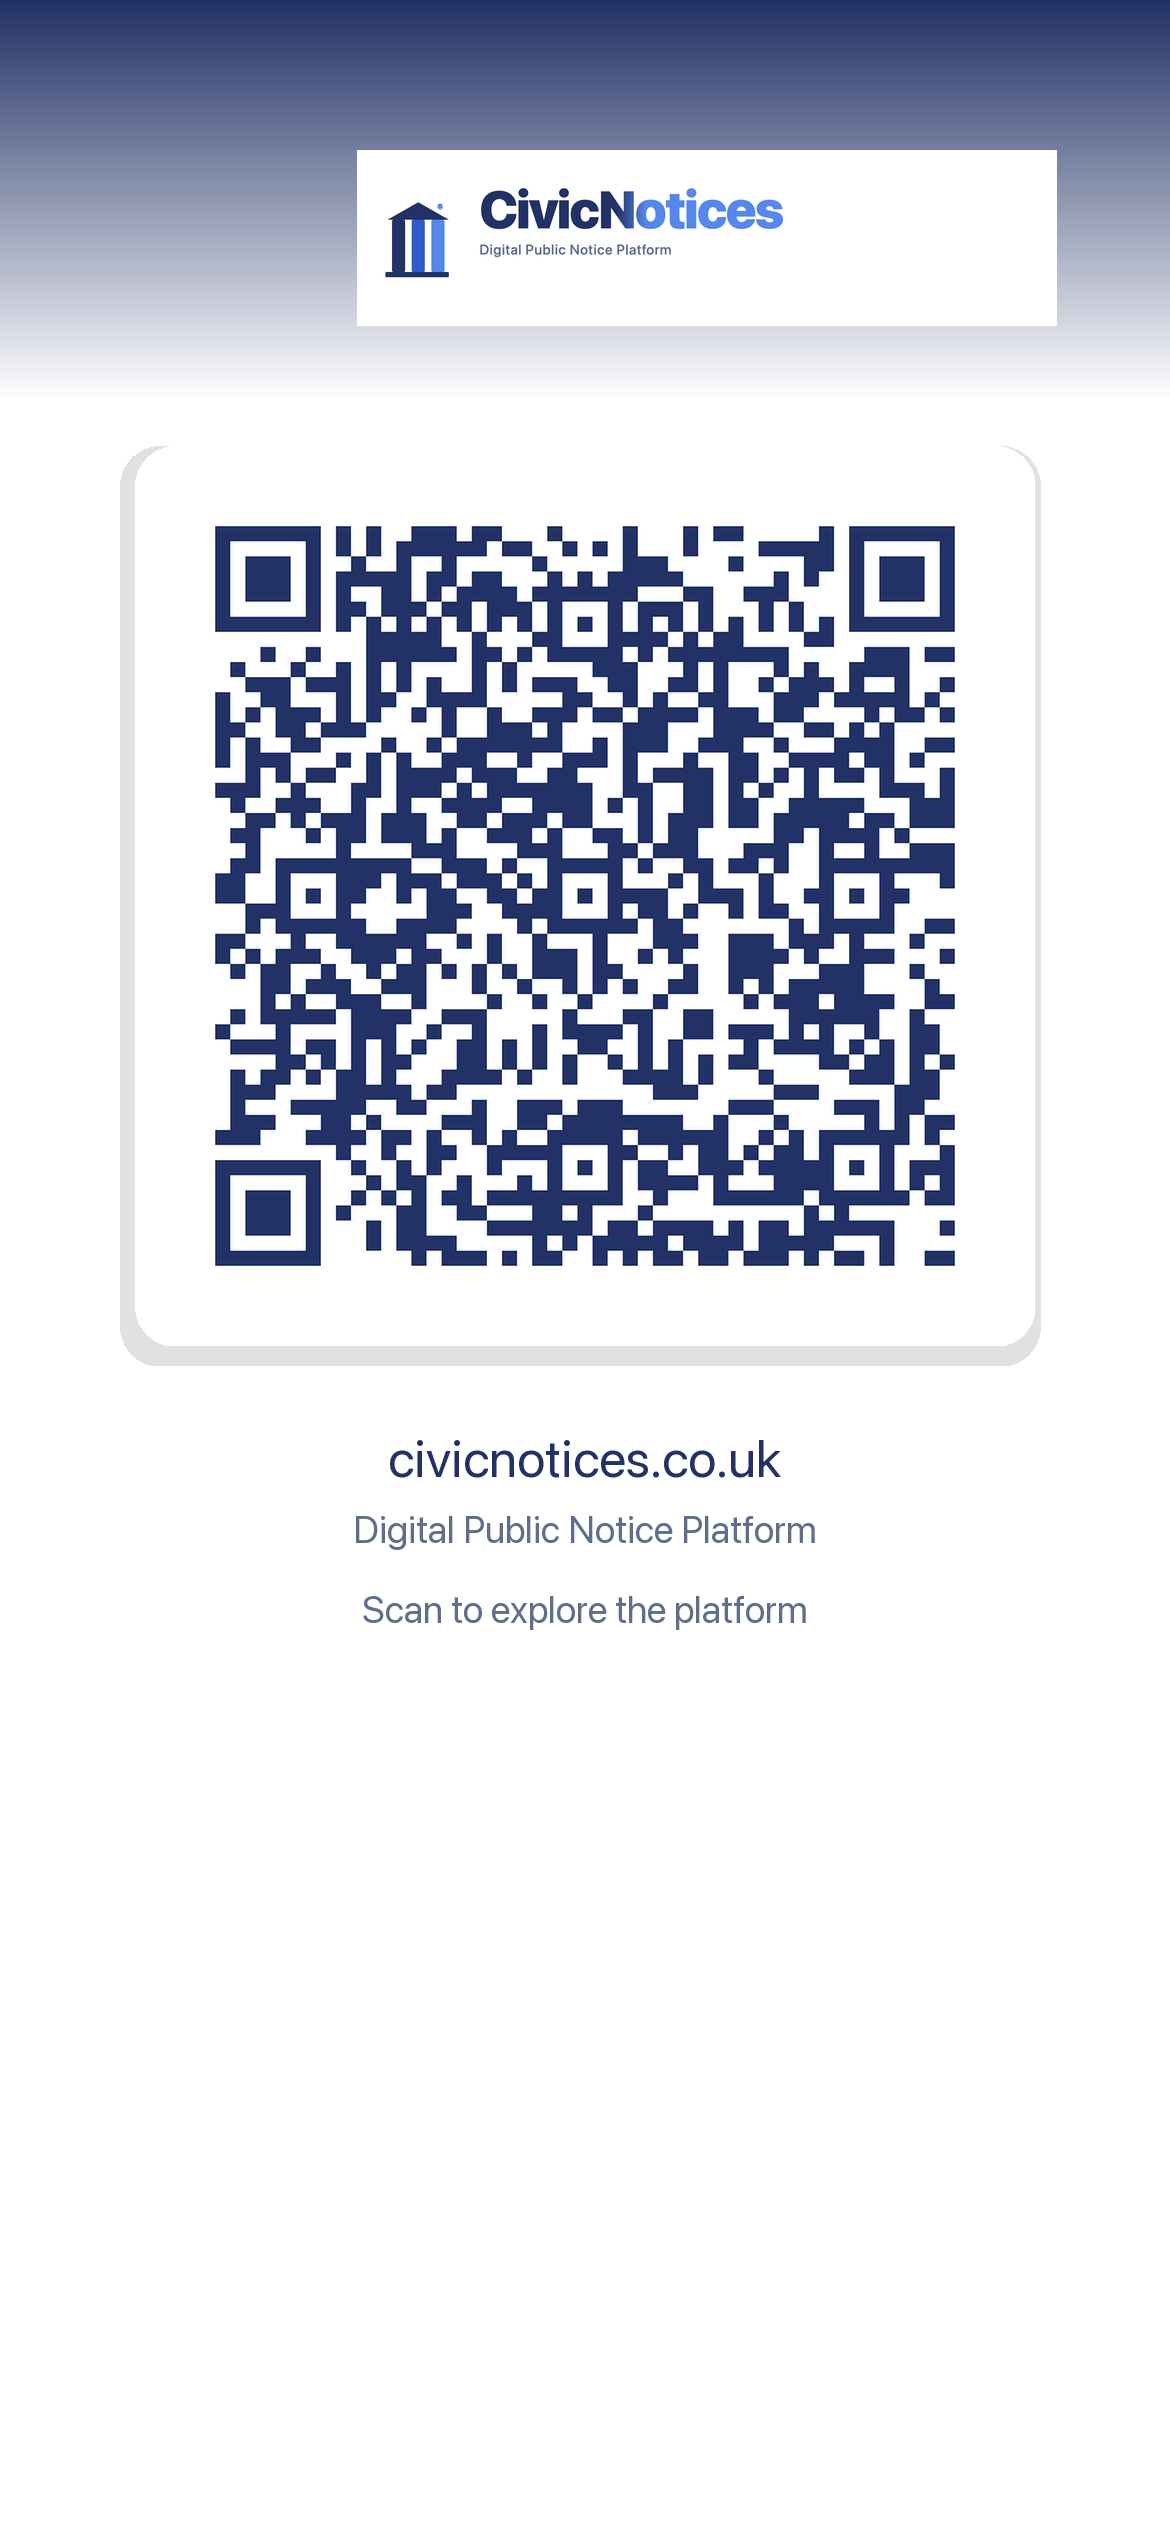
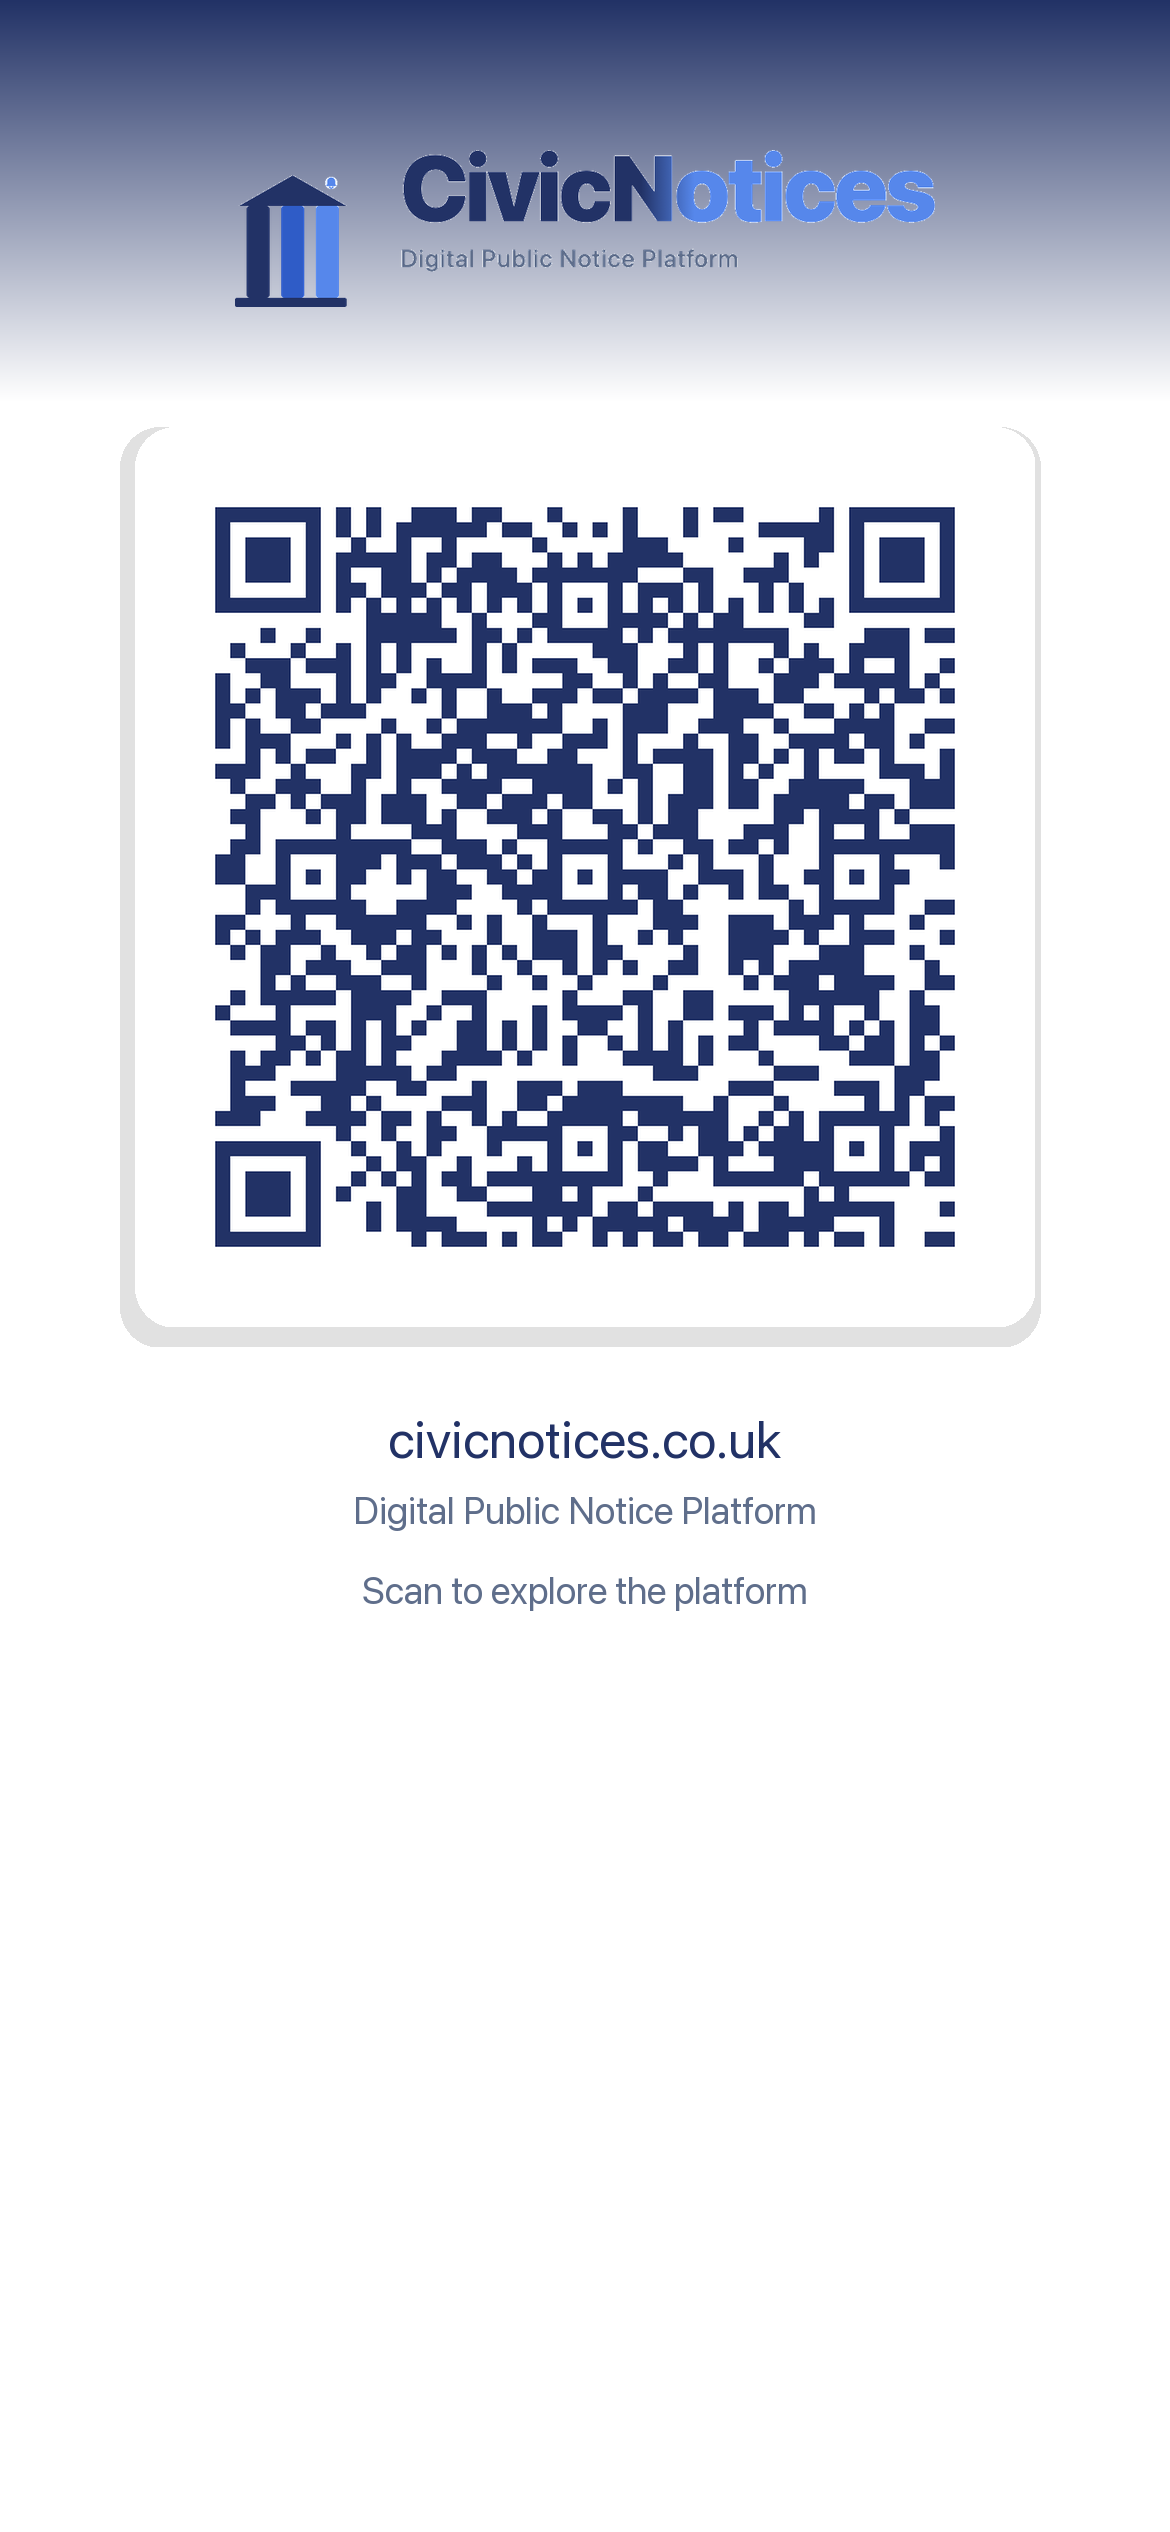
feat: move 'Explore Other Journeys' to top of journey pages
- Moved journey navigation to appear before video content
- Improves mobile UX by showing navigation options immediately
- Users no longer need to scroll past video to find other journeys

🤖 Generated with [Claude Code](https://claude.com/claude-code)

Changed region(s): [[0.0923, 0.1872, 0.8923, 0.6552], [0.1846, 0.0312, 0.9231, 0.1872], [0.0923, 0.156, 0.1231, 0.1872]]

diff --git a/src/pages/ShowcaseSegment.tsx b/src/pages/ShowcaseSegment.tsx
@@ -106,6 +106,30 @@ export default function ShowcaseSegment() {
           <p className="text-sm text-slate-500">{segment.duration}</p>
         </div>
 
+        {/* Other Segments */}
+        <div className="bg-gradient-to-r from-slate-100 to-slate-50 rounded-2xl p-8 mb-8">
+          <h2 className="text-2xl font-semibold text-slate-900 mb-6">Explore Other Journeys</h2>
+          <div className="grid grid-cols-1 sm:grid-cols-3 gap-4">
+            {Object.values(segmentData)
+              .filter(s => s.id !== segment.id)
+              .map(s => (
+                <Link
+                  key={s.id}
+                  to={`/showcase/${s.id}`}
+                  className="group bg-white rounded-xl p-6 shadow-sm hover:shadow-md transition-all duration-200"
+                >
+                  <div className={`inline-flex items-center justify-center w-10 h-10 rounded-lg bg-gradient-to-r ${s.gradient} text-white mb-3 group-hover:scale-110 transition-transform duration-200`}>
+                    {s.icon}
+                  </div>
+                  <h3 className="font-semibold text-slate-900 mb-1 group-hover:text-blue-600 transition-colors">
+                    {s.title}
+                  </h3>
+                  <p className="text-sm text-slate-500">{s.persona}</p>
+                </Link>
+              ))}
+          </div>
+        </div>
+
         {/* Video Container */}
         <div className="mb-8">
           <div className="relative rounded-2xl overflow-hidden shadow-2xl bg-slate-900">
@@ -147,30 +171,6 @@ export default function ShowcaseSegment() {
           <p className="text-slate-600 leading-relaxed text-lg">
             {segment.description}
           </p>
-        </div>
-
-        {/* Other Segments */}
-        <div className="bg-gradient-to-r from-slate-100 to-slate-50 rounded-2xl p-8">
-          <h2 className="text-2xl font-semibold text-slate-900 mb-6">Explore Other Journeys</h2>
-          <div className="grid grid-cols-1 sm:grid-cols-3 gap-4">
-            {Object.values(segmentData)
-              .filter(s => s.id !== segment.id)
-              .map(s => (
-                <Link
-                  key={s.id}
-                  to={`/showcase/${s.id}`}
-                  className="group bg-white rounded-xl p-6 shadow-sm hover:shadow-md transition-all duration-200"
-                >
-                  <div className={`inline-flex items-center justify-center w-10 h-10 rounded-lg bg-gradient-to-r ${s.gradient} text-white mb-3 group-hover:scale-110 transition-transform duration-200`}>
-                    {s.icon}
-                  </div>
-                  <h3 className="font-semibold text-slate-900 mb-1 group-hover:text-blue-600 transition-colors">
-                    {s.title}
-                  </h3>
-                  <p className="text-sm text-slate-500">{s.persona}</p>
-                </Link>
-              ))}
-          </div>
         </div>
 
         {/* Sample Notice CTA */}

diff --git a/scripts/generate-iphone-qr.py b/scripts/generate-iphone-qr.py
@@ -34,6 +34,17 @@ try:
 
     print(f"Original logo size: {logo.width}x{logo.height}px")
 
+    # Make white background transparent
+    pixels = logo.load()
+    for y in range(logo.height):
+        for x in range(logo.width):
+            r, g, b, a = pixels[x, y]
+            # If pixel is white or near-white, make it transparent
+            if r > 240 and g > 240 and b > 240:
+                pixels[x, y] = (r, g, b, 0)
+
+    print("Made white background transparent")
+
     # Crop transparent padding from logo to get actual content bounds
     bbox = logo.getbbox()
     if bbox:
@@ -49,22 +60,17 @@ try:
 
     print(f"Resized logo: {logo_width}x{logo_height}px")
 
-    # Center logo VISUALLY - accounting for internal white space
-    # The logo image has uneven white space (65px left, 626px right)
-    # Visual content is 281px off-center within the image
-    # At 700px width, this scales to 122px shift needed
-    logo_x_geometric = (width - logo_width) // 2  # 235px - geometric center
-    visual_offset = 122  # Shift right to center the actual content
-    logo_x = logo_x_geometric + visual_offset
+    # Center logo - now that it's been cropped properly
+    logo_x = (width - logo_width) // 2
     logo_y = 150
 
     print(f"\nLogo positioning:")
     print(f"  Screen width: {width}px")
     print(f"  Logo width: {logo_width}px")
-    print(f"  Geometric X: {logo_x_geometric}px")
-    print(f"  Visual offset: +{visual_offset}px (correcting internal white space)")
-    print(f"  Final logo X: {logo_x}px")
+    print(f"  Logo X position: {logo_x}px")
     print(f"  Logo Y position: {logo_y}px")
+    print(f"  Logo center: {logo_x + logo_width//2}px")
+    print(f"  Screen center: {width//2}px")
 
     img.paste(logo, (logo_x, logo_y), logo)
     qr_start_y = logo_y + logo_height + 120
